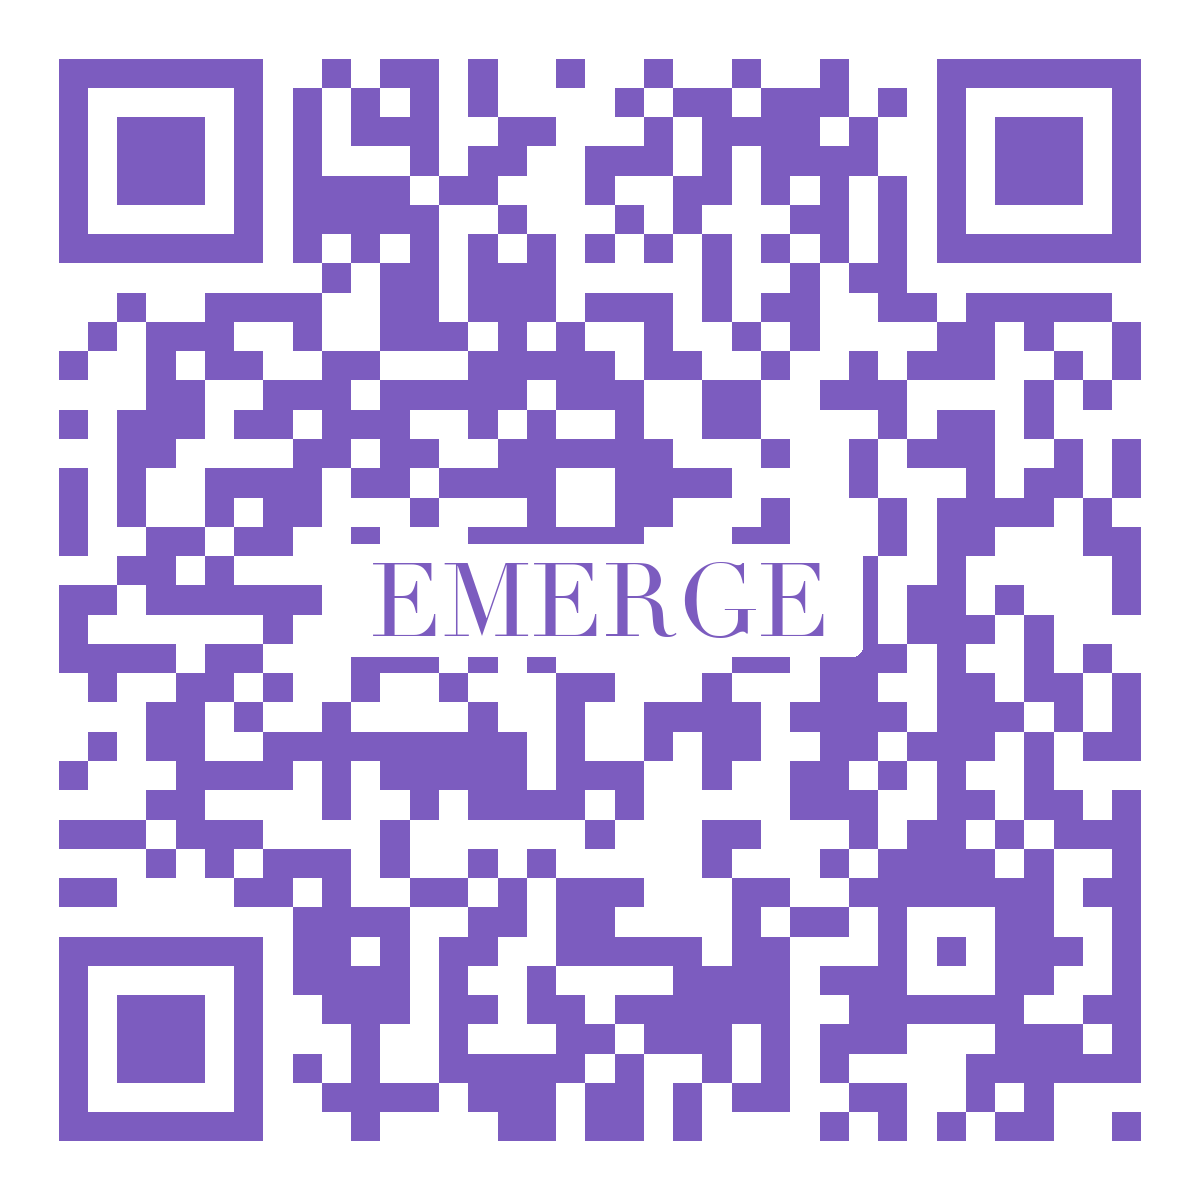
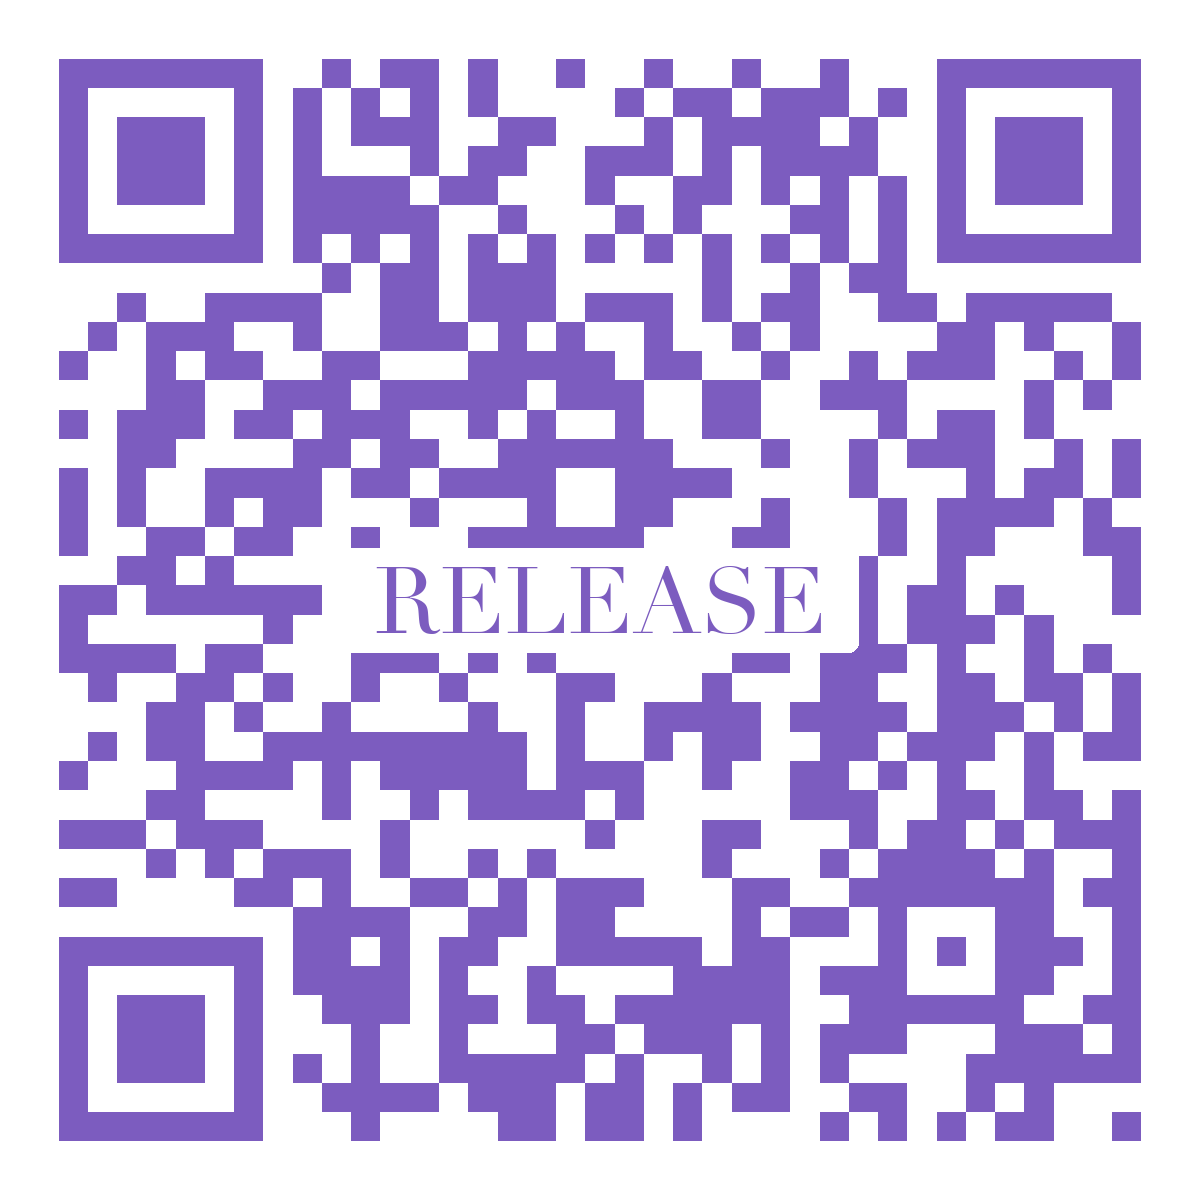
feat: QR emerge 中央字改 RELEASE（URL slug 仍 emerge），gitignore 暗版實驗檔

Changed region(s): [[0.3083, 0.4317, 0.74, 0.555]]

diff --git a/m26/generate_qr.py b/m26/generate_qr.py
@@ -21,6 +21,10 @@ CARDS = [
 
 BASE_URL = "https://oracle.as-for-me.com/m26/{slug}/"
 OUT_DIR = os.path.expanduser("~/asify-gravity-landing/m26/qr")
+
+LABEL_OVERRIDE = {
+    "emerge": "RELEASE",  # 「釋放」中央字用 RELEASE，URL slug 仍是 emerge
+}
 FONT_PATH = "/System/Library/Fonts/Supplemental/Didot.ttc"
 FONT_INDEX = 0  # Didot Regular
 
@@ -86,7 +90,8 @@ def main() -> None:
     for slug, cn in CARDS:
         url = BASE_URL.format(slug=slug)
         out = os.path.join(OUT_DIR, f"{slug}_{cn}.png")
-        make_qr(url, slug.upper(), out)
+        label = LABEL_OVERRIDE.get(slug, slug.upper())
+        make_qr(url, label, out)
 
 
 if __name__ == "__main__":
